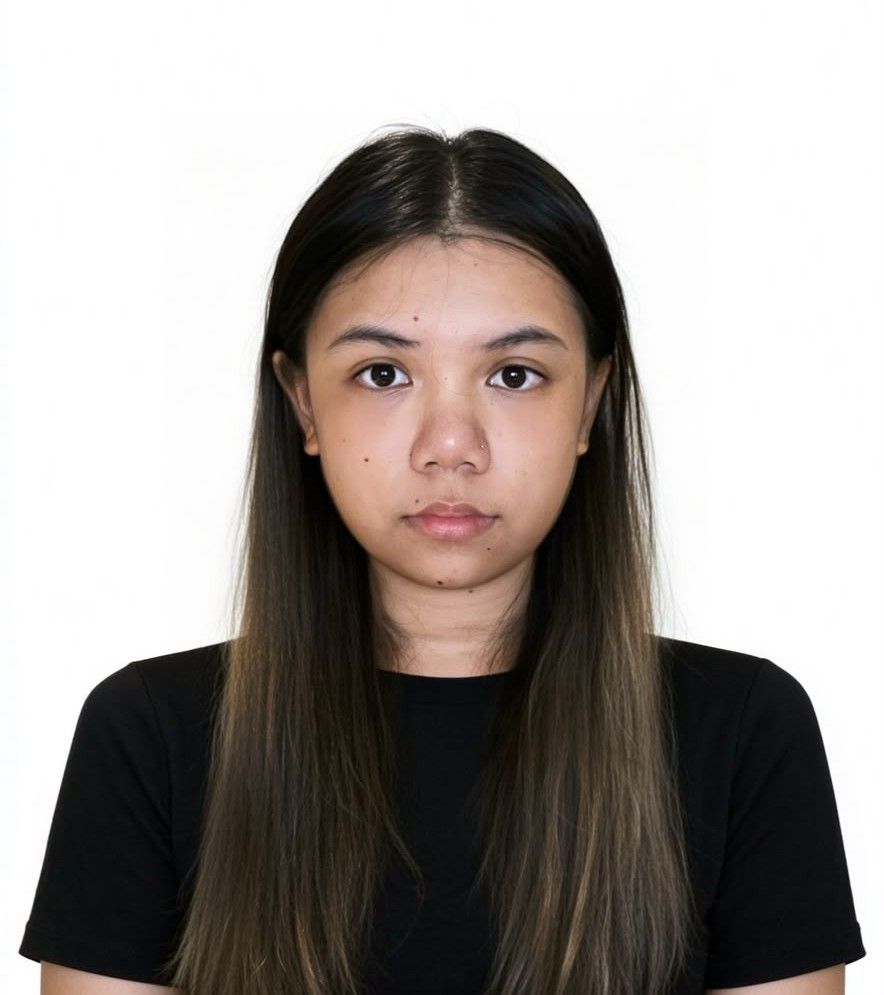
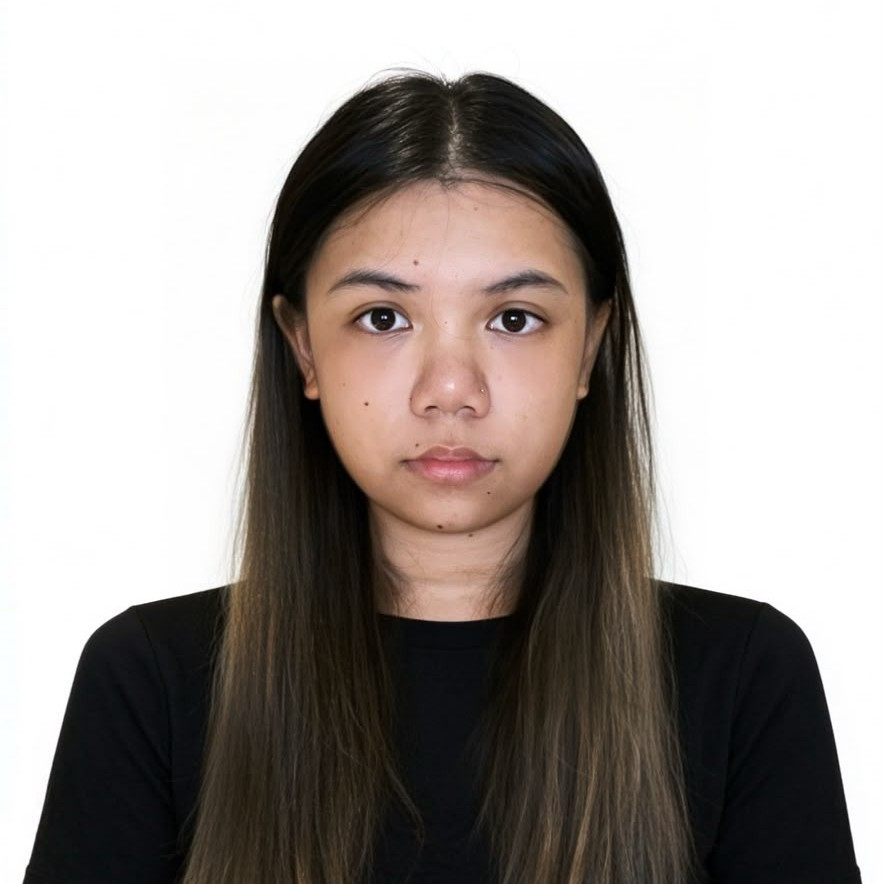
about-me all done

diff --git a/meetourteam.php b/meetourteam.php
@@ -85,16 +85,16 @@
         <h1> Meet Our Team </h1>
 
         <div id="cards">
-            <div class="card" onclick="window.location.href='LINK HERE'">
-                <img src="logo.png" alt="NAMEEEEE" class="pfp">
+            <div class="card" onclick="window.location.href='aboutme-yuxuan/about_me.php'">
+                <img src="aboutme-yuxuan/images/me.jpeg" alt="yuxuan" class="pfp">
                 <div class="info">
                     <h2> Administrator </h2>
                     <h3> Gan Yu Xuan </h3>
                 </div>
             </div>
 
-            <div class="card" onclick="window.location.href='LINK HERE'">
-                <img src="logo.png" alt="NAMEEEEE" class="pfp">
+            <div class="card" onclick="window.location.href='aboutme-yanqi/CO_about_me.php'">
+                <img src="aboutme-yanqi/profile.jpeg" alt="yanqi" class="pfp">
                 <div class="info">
                     <h2> Collector </h2>
                     <h3> Wong Yan Qi </h3>

diff --git a/aboutme-yuxuan/about_me.php b/aboutme-yuxuan/about_me.php
@@ -131,11 +131,17 @@
             .travel-images figcaption {
                 font-size: 12px;
             }
+
+            .back {
+                display : flex;
+                flex-direction : column;
+                align-items : center;
+            }
         }
     </style>
 </head>
 <body>
-
+    <div class="back"> <a href="../meetourteam.php">Back</a> </div>
     <h1>About Me</h1>
 
     <div class="container">

diff --git a/aboutme-yanqi/CO_about_me.php b/aboutme-yanqi/CO_about_me.php
@@ -110,6 +110,7 @@ footer { text-align: center; padding: 1rem; background: var(--main); }
                 <li><a href="#education">Education</a></li>
                 <li><a href="#hobbies">Hobby</a></li>
                 <li><a href="c#ontact">Contact</a></li>
+                <li><a href="../meetourteam.php">Back</a></li>
             </ul>
          </nav>
     </header>
